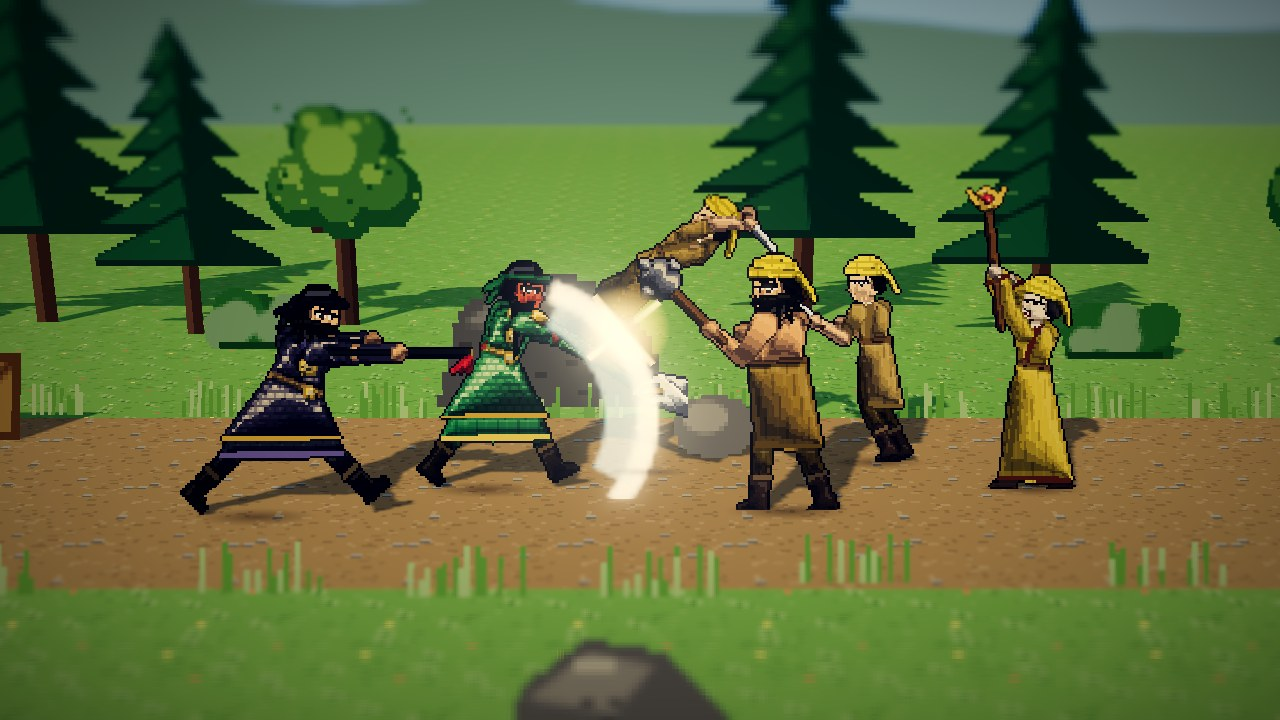
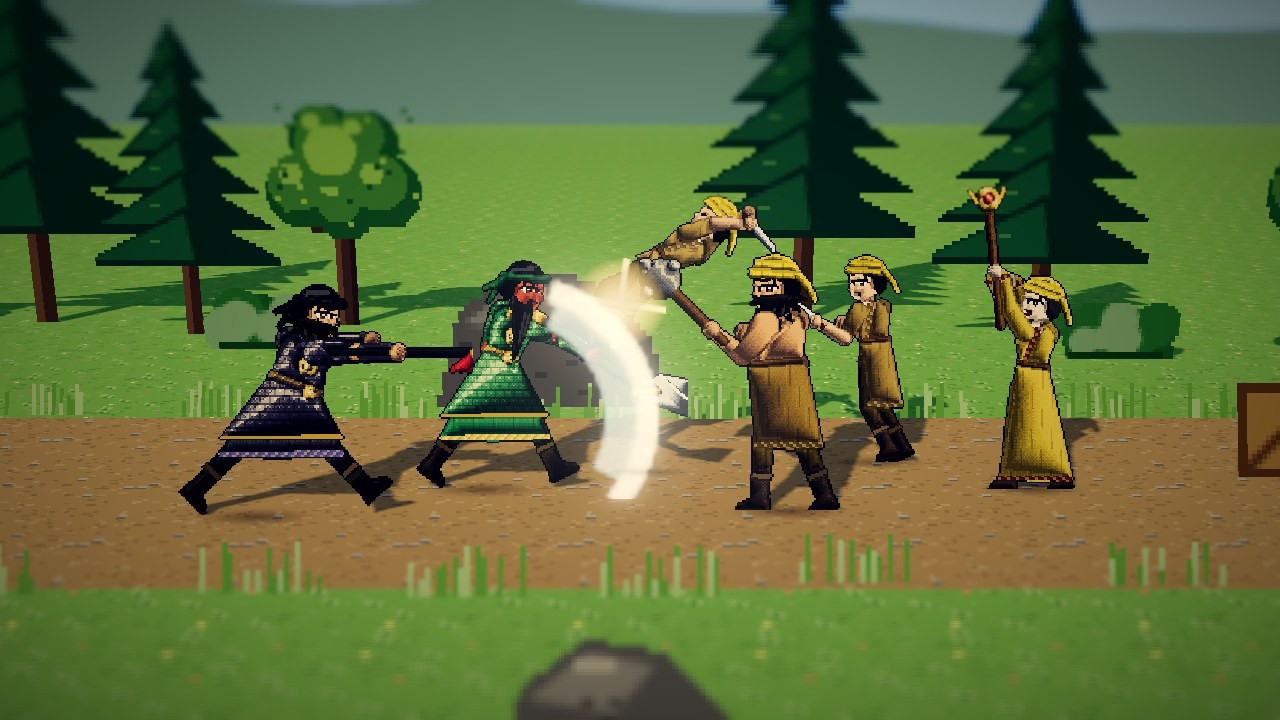
Lobby: 亂世豪俠傳 thumbnail with the finer characters

diff --git a/games.js b/games.js
@@ -13,7 +13,7 @@ window.GAMES = [
   {
     id: 'sanguobrawl',
     url: '/sanguo-brawl/',
-    thumb: 'thumbs/sanguobrawl.jpg?v=2',
+    thumb: 'thumbs/sanguobrawl.jpg?v=3',
     color: '#1a120a',
     genres: ['action', 'rpg'],
     devices: ['keyboard', 'touch'],

diff --git a/index.html b/index.html
@@ -78,7 +78,7 @@
     </form>
   </div>
 
-  <script src="games.js?v=136"></script>
+  <script src="games.js?v=137"></script>
   <script src="app.js?v=12"></script>
   <script type="module" src="account.js?v=2"></script>
 </body>
